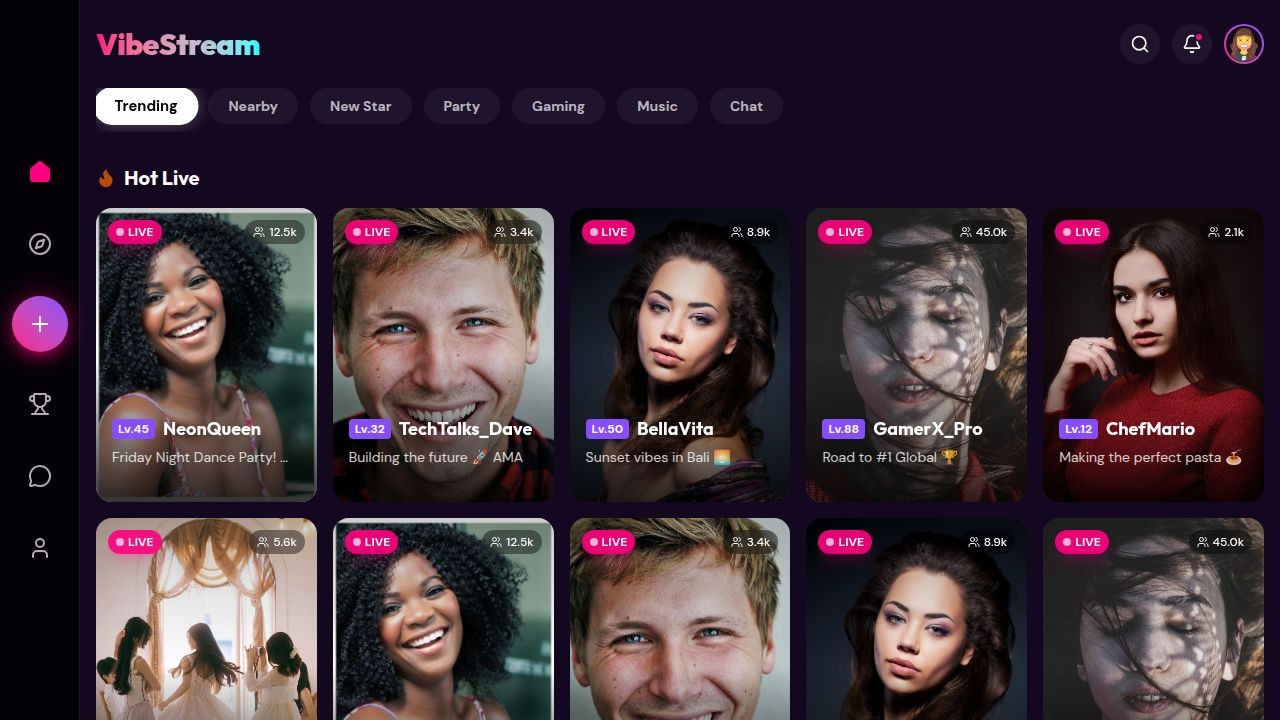
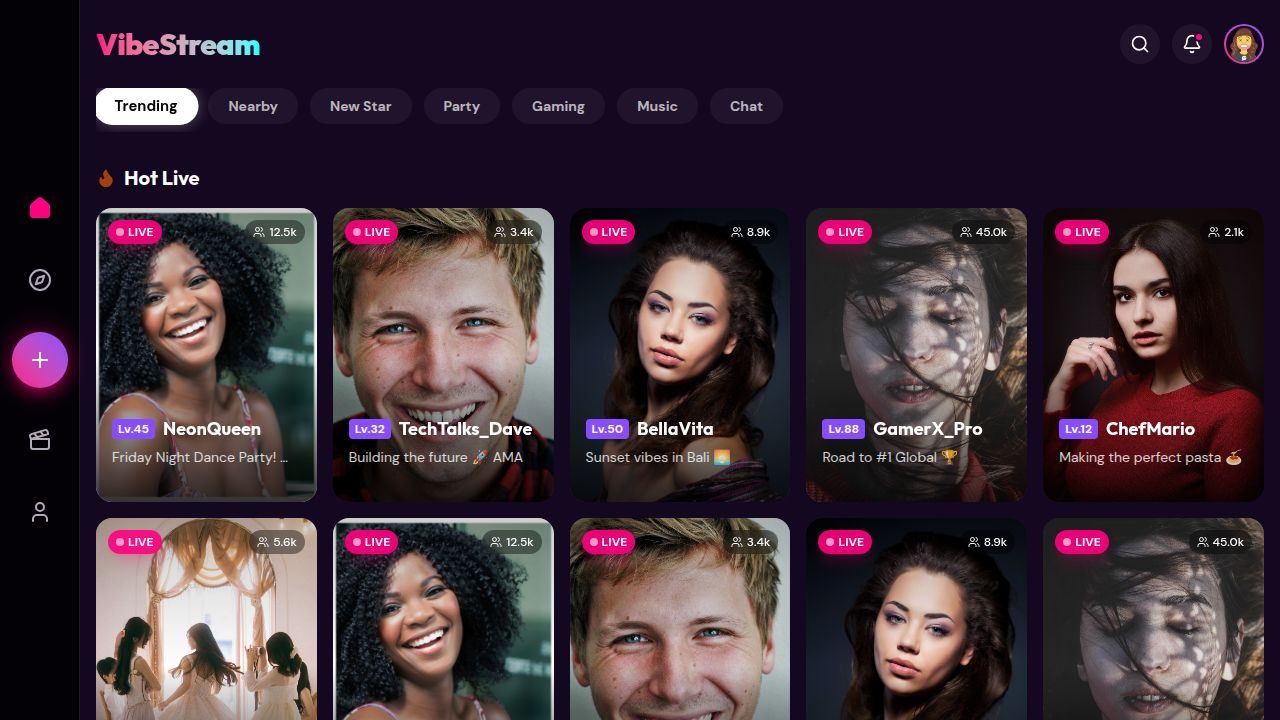
Add a dedicated feed for short-form vertical videos
Integrates a new "Shorts" page with vertical scrolling, interaction overlays, and mock video data, adding a new route and navigation item.

Replit-Commit-Author: Agent
Replit-Commit-Session-Id: 5d3b4fe0-1268-45e6-82b3-d8e968c78383
Replit-Commit-Checkpoint-Type: full_checkpoint
Replit-Commit-Event-Id: 98d1aee5-fa8e-4d35-a7dd-bb5b3bfbdbf1
Replit-Commit-Screenshot-Url: https://storage.googleapis.com/screenshot-production-us-central1/87293f6c-1529-466b-9aa3-fc76285da6bf/5d3b4fe0-1268-45e6-82b3-d8e968c78383/WwtFjvJ
Replit-Helium-Checkpoint-Created: true

Changed region(s): [[0.0, 0.3667, 0.0625, 0.5806], [0.0, 0.275, 0.0625, 0.3056], [0.0, 0.2139, 0.0625, 0.2444]]

diff --git a/client/src/pages/shorts.tsx b/client/src/pages/shorts.tsx
@@ -1,0 +1,90 @@
+import Layout from "@/components/layout";
+import { MOCK_SHORTS } from "@/lib/mock-data";
+import { Heart, MessageCircle, Share2, Music2, Disc, Plus } from "lucide-react";
+import { useState } from "react";
+import { cn } from "@/lib/utils";
+
+export default function Shorts() {
+  const [activeShort, setActiveShort] = useState(0);
+
+  const handleScroll = (e: React.UIEvent<HTMLDivElement>) => {
+    const index = Math.round(e.currentTarget.scrollTop / e.currentTarget.clientHeight);
+    setActiveShort(index);
+  };
+
+  return (
+    <Layout>
+      <div 
+        className="h-[calc(100vh-5rem)] md:h-screen w-full snap-y snap-mandatory overflow-y-scroll no-scrollbar bg-black"
+        onScroll={handleScroll}
+      >
+        {MOCK_SHORTS.map((short, i) => (
+          <div key={short.id} className="h-full w-full snap-start relative flex items-center justify-center bg-gray-900">
+            {/* Video Placeholder */}
+            <img 
+              src={short.video} 
+              alt="Short" 
+              className="w-full h-full object-cover opacity-90"
+            />
+            <div className="absolute inset-0 bg-gradient-to-b from-transparent via-transparent to-black/90" />
+
+            {/* Right Side Actions */}
+            <div className="absolute right-4 bottom-20 flex flex-col items-center gap-6 z-20">
+              <div className="relative">
+                <div className="w-12 h-12 rounded-full border-2 border-white overflow-hidden p-0.5">
+                  <img src={short.user.avatar} className="w-full h-full rounded-full object-cover" />
+                </div>
+                <div className="absolute -bottom-2 left-1/2 -translate-x-1/2 bg-primary rounded-full p-0.5">
+                    <Plus className="w-3 h-3 text-white" />
+                </div>
+              </div>
+
+              <div className="flex flex-col items-center gap-1">
+                <div className="p-3 rounded-full bg-white/10 backdrop-blur-md hover:bg-white/20 transition-colors cursor-pointer">
+                    <Heart className="w-7 h-7 text-white fill-white/20 hover:fill-red-500 hover:text-red-500 transition-colors" />
+                </div>
+                <span className="text-white text-xs font-bold">{short.likes}</span>
+              </div>
+
+              <div className="flex flex-col items-center gap-1">
+                <div className="p-3 rounded-full bg-white/10 backdrop-blur-md hover:bg-white/20 transition-colors cursor-pointer">
+                    <MessageCircle className="w-7 h-7 text-white fill-white/20" />
+                </div>
+                <span className="text-white text-xs font-bold">{short.comments}</span>
+              </div>
+
+              <div className="flex flex-col items-center gap-1">
+                <div className="p-3 rounded-full bg-white/10 backdrop-blur-md hover:bg-white/20 transition-colors cursor-pointer">
+                    <Share2 className="w-7 h-7 text-white" />
+                </div>
+                <span className="text-white text-xs font-bold">{short.shares}</span>
+              </div>
+
+              <div className="mt-2 animate-[spin_5s_linear_infinite]">
+                 <div className="w-12 h-12 rounded-full bg-gray-800 border-4 border-gray-900 flex items-center justify-center relative overflow-hidden">
+                    <img src={short.user.avatar} className="w-full h-full object-cover opacity-80" />
+                    <div className="absolute inset-0 flex items-center justify-center">
+                        <Disc className="w-6 h-6 text-white" />
+                    </div>
+                 </div>
+              </div>
+            </div>
+
+            {/* Bottom Info */}
+            <div className="absolute bottom-6 left-4 right-16 z-20 text-white">
+                <h3 className="font-bold text-lg mb-2">@{short.user.username}</h3>
+                <p className="text-sm mb-4 line-clamp-2">{short.description}</p>
+                
+                <div className="flex items-center gap-2 bg-white/10 w-fit px-3 py-1 rounded-full backdrop-blur-sm animate-pulse">
+                    <Music2 className="w-3 h-3" />
+                    <div className="text-xs overflow-hidden w-32 whitespace-nowrap">
+                        <span className="inline-block animate-marquee">{short.song}</span>
+                    </div>
+                </div>
+            </div>
+          </div>
+        ))}
+      </div>
+    </Layout>
+  );
+}

diff --git a/client/src/lib/mock-data.ts b/client/src/lib/mock-data.ts
@@ -114,3 +114,36 @@ export const MOCK_PK_OPPONENT = {
   score: 4500,
   winStreak: 5
 };
+
+export const MOCK_SHORTS = [
+  {
+    id: '1',
+    video: img1, // Using image as placeholder for video
+    user: { username: 'NeonQueen', avatar: img1 },
+    description: 'When the beat drops just right! 🎵🔥 #dance #vibes',
+    likes: '125K',
+    comments: '1.2K',
+    shares: '5.5K',
+    song: 'Original Sound - NeonQueen'
+  },
+  {
+    id: '2',
+    video: img3,
+    user: { username: 'BellaVita', avatar: img3 },
+    description: 'Bali sunsets are different... 🌅✨ #travel #bali',
+    likes: '89K',
+    comments: '850',
+    shares: '2.1K',
+    song: 'Summer Vibes - Chill Mix'
+  },
+  {
+    id: '3',
+    video: img5,
+    user: { username: 'ChefMario', avatar: img5 },
+    description: 'Secret pasta sauce recipe reveal! 🍝🤫 #cooking #foodie',
+    likes: '45K',
+    comments: '2.3K',
+    shares: '12K',
+    song: 'Italian Dinner Jazz'
+  }
+];

diff --git a/client/src/components/layout.tsx b/client/src/components/layout.tsx
@@ -1,5 +1,5 @@
 import { Link, useLocation } from "wouter";
-import { Home, Compass, Plus, MessageCircle, User, Trophy } from "lucide-react";
+import { Home, Compass, Plus, MessageCircle, User, Trophy, Clapperboard } from "lucide-react";
 import { cn } from "@/lib/utils";
 import { motion } from "framer-motion";
 
@@ -10,8 +10,7 @@ export default function Layout({ children }: { children: React.ReactNode }) {
     { icon: Home, label: "Home", path: "/" },
     { icon: Compass, label: "Explore", path: "/explore" },
     { icon: Plus, label: "Go Live", path: "/go-live", isPrimary: true },
-    { icon: Trophy, label: "Rank", path: "/leaderboard" },
-    { icon: MessageCircle, label: "Chat", path: "/chat" },
+    { icon: Clapperboard, label: "Shorts", path: "/shorts" },
     { icon: User, label: "Profile", path: "/profile" },
   ];
 

diff --git a/client/src/App.tsx b/client/src/App.tsx
@@ -11,6 +11,7 @@ import GoLive from "@/pages/go-live";
 import Chat from "@/pages/chat";
 import Profile from "@/pages/profile";
 import Leaderboard from "@/pages/leaderboard";
+import Shorts from "@/pages/shorts";
 
 function Router() {
   return (
@@ -19,6 +20,7 @@ function Router() {
       <Route path="/explore" component={Explore} />
       <Route path="/go-live" component={GoLive} />
       <Route path="/chat" component={Chat} />
+      <Route path="/shorts" component={Shorts} />
       <Route path="/leaderboard" component={Leaderboard} />
       <Route path="/profile" component={Profile} />
       <Route path="/live/:id" component={LiveRoom} />
